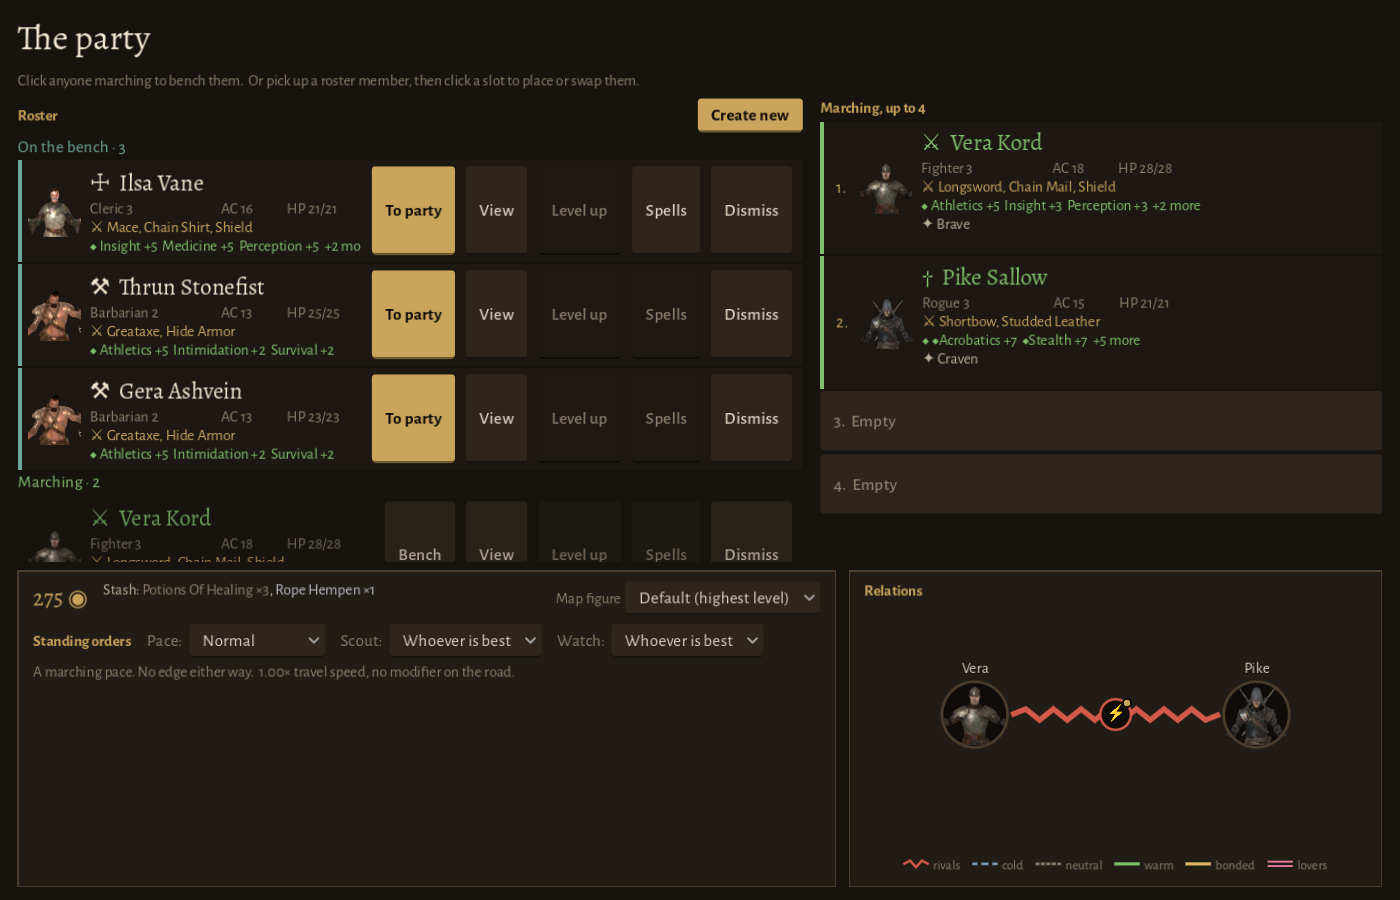
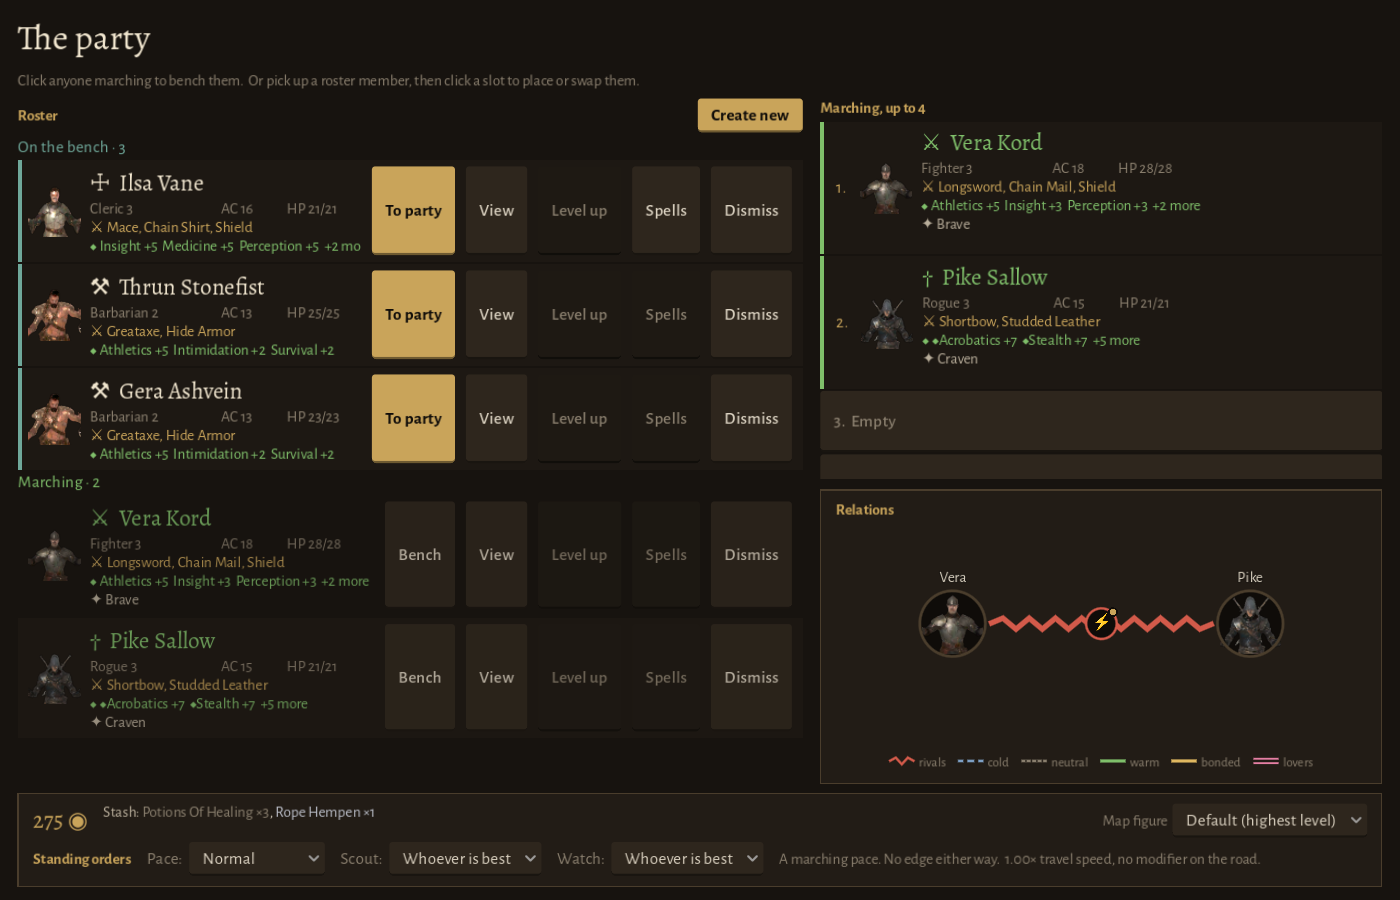
The party page: Relations under the marching column, the orders a strip along the bottom
The Relations card moves under the Marching column and takes its width.
The bottom card is kept to two lines: purse, stash and map figure, then the
standing orders with the pace note beside them, cut to fit with the whole
sentence on hover. The Callings add one line, the same way, once told.

Claude-Session: https://claude.ai/code/session_019eqg1iZ35fYFRmC11R2cGm

diff --git a/docs/expansion-plan.md b/docs/expansion-plan.md
@@ -9287,10 +9287,19 @@ Tests:
 The owner asked for opinion between characters to be "less text oriented".
 The party page used to list one line per active pair, e.g. "Vera Kord and
 Pike Sallow — rivals (-44)", which is six lines for a party of four. It now
-draws a web instead (`scenes/party/relations_web.gd`), in a Relations card of
-its own to the right of the standing orders' card. The owner's second ask
-was to "split relations and marching orders", so the two no longer share a
-frame.
+draws a web instead (`scenes/party/relations_web.gd`).
+
+The page's layout changed with it, in three owner requests: "split relations
+and marching orders", then "minimize orders tab to the bottom" and "relations
+tab should match the active squad tab horizontal dimension".
+- **Relations** now have a card of their own under the Marching column, as
+  wide as it, since the card is about the same four people. It is hidden
+  for a party of one.
+- **The bottom strip** is kept to two lines. The first holds the purse,
+  stash and map figure. The second holds the standing orders, with the pace
+  note beside them, cut to one line with the whole sentence on hover.
+- **The Callings** add a third line only once one has been told, also cut
+  to fit, each on its own line in the tooltip.
 
 - **Faces.** The marching party's busts sit in a ring, in marching order,
   with a first name on each face's outer side. Two members stand side by
@@ -9311,8 +9320,8 @@ frame.
     the score and the traits behind it.
   - Over a face, it lists every pair that person is in, and the rest dims.
 - **Key.** A short key of the six strokes runs along the bottom.
-- **Callings.** The Callings lines are still text, now in their own
-  `CallingsRow` under the orders.
+- **Callings.** The Callings are still text, one line in the bottom strip
+  (`CallingsRow`).
 
 **The bench first.** The owner also asked to "make substitute characters
 easier to see on the left". The Roster column used to list everyone in
@@ -9333,7 +9342,8 @@ Screenshots: `docs/shots/relations-web.png` (every band at once),
 bench, heading the column), from `tests/shot_relations_web.gd`.
 Tests: `tests/test_party_screen.gd`'s new `_bench_first` checks the bench's
 head and count, the substitutes straight after it, the marching head and
-order, the primary To party, and the Relations card. Its relations section
+order, the primary To party, the Relations card under the marching column
+and as wide as it, and the one-line pace note. Its relations section
 now reads the web.
 It checks one edge per pair, the soured pair's band, that the tooltip on a
 line equals `describe()`, that a face's tooltip lists each of its pairs, and
